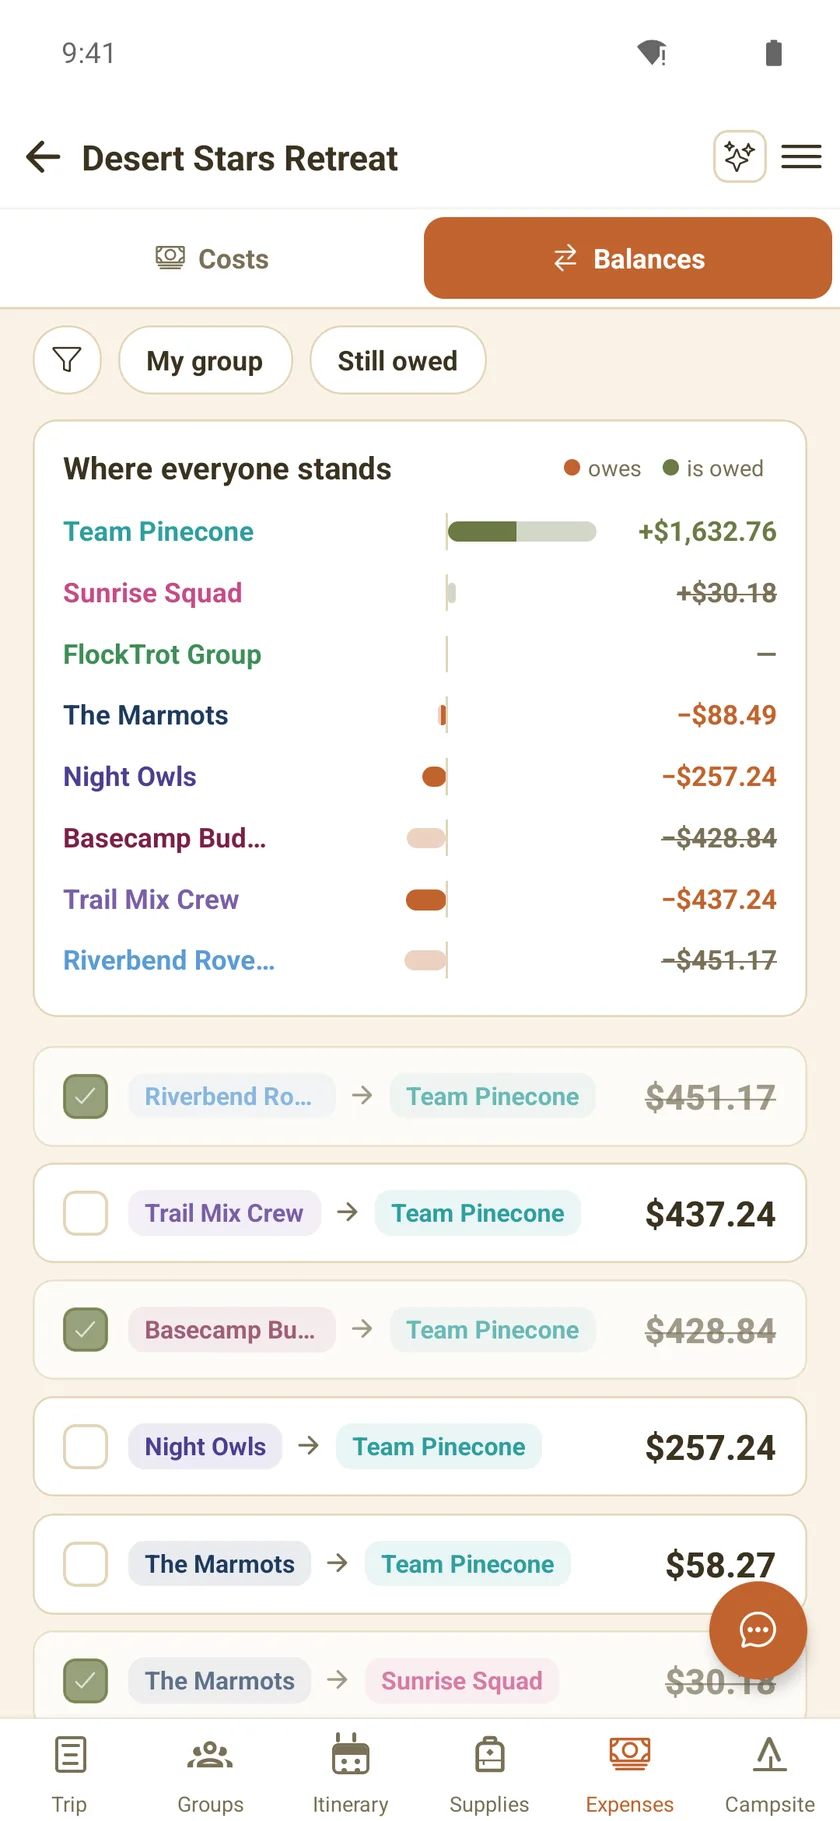
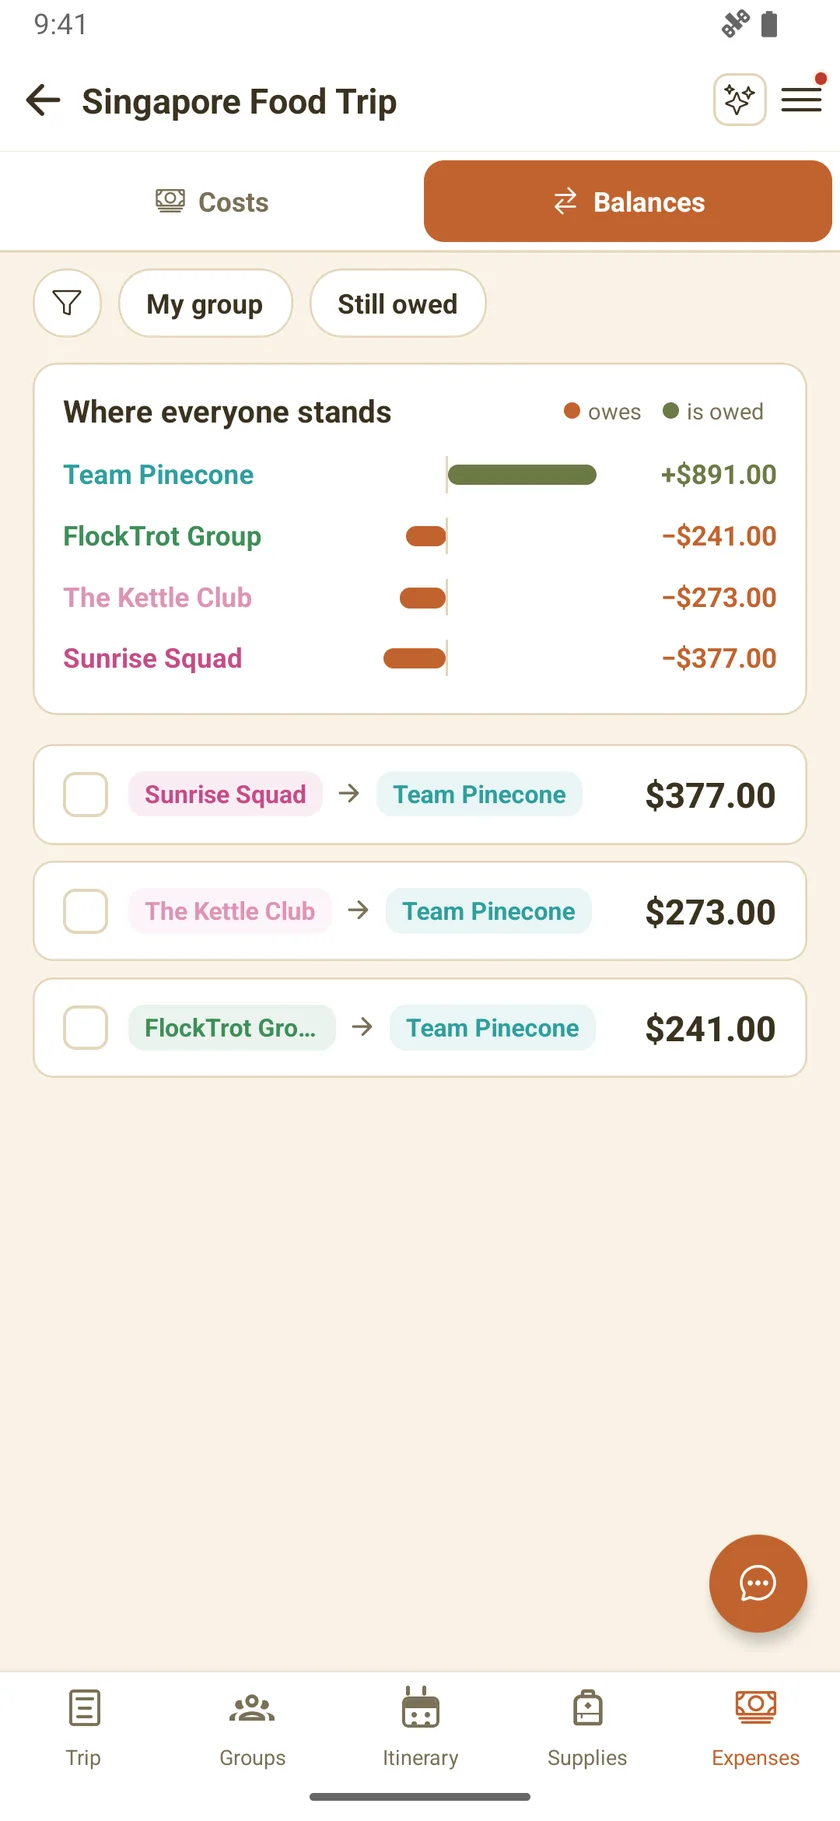
Lead with any group trip, not just camping
Hero, metadata, JSON-LD and FAQ now say group trip; the who-it's-for section
moves up under the features as 'Built for camping. Ready for any trip.' with a
cabin/road-trip/city card first. Trip list, calendar and balances images are
re-shot from the Singapore and Tahoe demo trips.

diff --git a/index.html b/index.html
@@ -4,8 +4,8 @@
 <meta charset="UTF-8">
 <meta name="viewport" content="width=device-width, initial-scale=1">
 
-<title>FlockTrot — Group Camping Trip Planner App for Friends &amp; Family</title>
-<meta name="description" content="Free group camping trip planner for iPhone and Android. Build a shared itinerary, split costs and track who's bringing which supplies — all in one app.">
+<title>FlockTrot — Group Trip Planner for Camping, Cabins &amp; Road Trips</title>
+<meta name="description" content="Free group trip planner for iPhone and Android. Camping, a cabin weekend or a city getaway: build a shared itinerary, split costs and see who's bringing what, all in one app.">
 <link rel="canonical" href="https://www.flocktrot.com/">
 <meta name="robots" content="index, follow, max-image-preview:large, max-snippet:-1">
 <meta name="theme-color" content="#FAF3E7" media="(prefers-color-scheme: light)">
@@ -17,16 +17,16 @@
 <meta property="og:type" content="website">
 <meta property="og:site_name" content="FlockTrot">
 <meta property="og:url" content="https://www.flocktrot.com/">
-<meta property="og:title" content="FlockTrot — Group Camping Trip Planner for Friends &amp; Family">
-<meta property="og:description" content="Build a shared itinerary, split costs, and track who's bringing what — instead of juggling group texts and spreadsheets. Free on iPhone and Android.">
+<meta property="og:title" content="FlockTrot — The Group Trip Planner for Friends &amp; Family">
+<meta property="og:description" content="Camping, cabins, road trips or a city getaway: build a shared itinerary, split costs and track who's bringing what, instead of juggling group texts. Free on iPhone and Android.">
 <meta property="og:image" content="https://www.flocktrot.com/img/og-image.png">
 <meta property="og:image:width" content="1200">
 <meta property="og:image:height" content="630">
-<meta property="og:image:alt" content="FlockTrot — plan group camping trips together. Two phones showing a trip list and a shared supplies list.">
+<meta property="og:image:alt" content="FlockTrot — plan group trips together. Two phones showing a trip list and a shared supplies list.">
 <meta property="og:locale" content="en_US">
 <meta name="twitter:card" content="summary_large_image">
-<meta name="twitter:title" content="FlockTrot — Group Camping Trip Planner for Friends &amp; Family">
-<meta name="twitter:description" content="Build a shared itinerary, split costs, and track who's bringing what — instead of juggling group texts and spreadsheets. Free on iPhone and Android.">
+<meta name="twitter:title" content="FlockTrot — The Group Trip Planner for Friends &amp; Family">
+<meta name="twitter:description" content="Camping, cabins, road trips or a city getaway: build a shared itinerary, split costs and track who's bringing what, instead of juggling group texts. Free on iPhone and Android.">
 <meta name="twitter:image" content="https://www.flocktrot.com/img/og-image.png">
 
 <!-- Native app banners / deep-link association -->
@@ -66,7 +66,7 @@
       "@id": "https://www.flocktrot.com/#website",
       "url": "https://www.flocktrot.com/",
       "name": "FlockTrot",
-      "description": "Group camping trip planner app for friends and family.",
+      "description": "Group trip planner app for friends and family: camping, cabins, road trips and more.",
       "publisher": { "@id": "https://www.flocktrot.com/#org" },
       "inLanguage": "en-US"
     },
@@ -74,7 +74,7 @@
       "@type": "MobileApplication",
       "@id": "https://www.flocktrot.com/#app",
       "name": "FlockTrot",
-      "alternateName": "FlockTrot: Group Camping Trip Planner",
+      "alternateName": "FlockTrot: Group Trip Planner",
       "applicationCategory": "TravelApplication",
       "applicationSubCategory": "Trip Planner",
       "operatingSystem": "iOS 15.1 or later, Android 8.0 or later",
@@ -90,7 +90,7 @@
         "https://www.flocktrot.com/img/supplies@2x.webp",
         "https://www.flocktrot.com/img/calendar-view@2x.webp"
       ],
-      "description": "FlockTrot brings everything a group needs for a camping trip into one shared place: a day-by-day itinerary in list, calendar or map view, a shared supplies and meals list, expense splitting, group chat, campsite details, a reusable personal gear list, and offline access at the campground.",
+      "description": "FlockTrot brings everything a group needs for a trip, from a campground to a cabin or a city break, into one shared place: a day-by-day itinerary in list, calendar or map view, a shared supplies and meals list, expense splitting, group chat, campsite details, a reusable personal gear list, and offline access at the campground.",
       "featureList": [
         "Shared day-by-day itinerary with list, calendar and map views",
         "AI trip builder that drafts a plan from a plain-language description",
@@ -121,7 +121,7 @@
         },
         {
           "@type": "Question",
-          "name": "How do I join a camping trip someone invited me to?",
+          "name": "How do I join a trip someone invited me to?",
           "acceptedAnswer": { "@type": "Answer", "text": "Open the invite link the trip organiser sends you. If you already have FlockTrot installed, the link opens the invite directly. If you don't, the page walks you through installing the app first, and you're added to the trip automatically once you open FlockTrot and sign in." }
         },
         {
@@ -195,11 +195,12 @@
     <div class="wrap hero__grid">
       <div>
         <span class="eyebrow">Free on iPhone &amp; Android</span>
-        <h1>Plan group camping trips together</h1>
+        <h1>Plan group trips together</h1>
         <p class="hero__lede">
-          FlockTrot gives your whole crew one shared place for the itinerary, the
-          supplies, the campsite and the costs — so nobody's scrolling back through
-          group texts to find out who's bringing the tent.
+          Camping, a cabin weekend or a trip abroad: FlockTrot gives your whole crew
+          one shared place for the itinerary, the supplies, where you're staying and
+          the costs, so nobody's scrolling back through group texts to find out
+          who's bringing what.
         </p>
 
         <div class="stores">
@@ -221,7 +222,7 @@
 
         <p class="hero__note">
           <svg width="17" height="17" viewBox="0 0 24 24" fill="none" stroke="currentColor" stroke-width="2.2" stroke-linecap="round" stroke-linejoin="round" aria-hidden="true" focusable="false"><path d="M20 6L9 17l-5-5"/></svg>
-          Free, no subscription, no ads — and your trips work offline at the campground.
+          Free, no subscription, no ads — and your trips work offline, even with no signal.
         </p>
       </div>
 
@@ -229,7 +230,7 @@
         <div class="phone phone--lead">
           <img src="img/trip-list.webp" srcset="img/trip-list.webp 1x, img/trip-list@2x.webp 2x"
                width="420" height="910" fetchpriority="high" decoding="async"
-               alt="The FlockTrot trip list showing three upcoming trips, each with its campground, dates and how many groups and members are going.">
+               alt="The FlockTrot trip list showing a Singapore food trip with its hotel and a Tahoe cabin weekend, each with dates, a countdown and how many groups and members are going.">
         </div>
         <div class="phone phone--back" aria-hidden="true">
           <img src="img/supplies.webp" srcset="img/supplies.webp 1x, img/supplies@2x.webp 2x"
@@ -251,7 +252,7 @@
     </span>
     <span class="trust__item">
       <svg width="17" height="17" viewBox="0 0 24 24" fill="none" stroke="currentColor" stroke-width="2.2" stroke-linecap="round" stroke-linejoin="round" aria-hidden="true" focusable="false"><path d="M3 3l18 18"/><path d="M5 12.5a10 10 0 0 1 4-2.4M2 8.8a15 15 0 0 1 5-3M10.6 5.1A15 15 0 0 1 22 8.8M18.7 12.4a10 10 0 0 0-2.3-1.5"/><path d="M8.5 16.2a5 5 0 0 1 6-.8"/><path d="M12 20h.01"/></svg>
-      Works offline at camp
+      Works offline
     </span>
     <span class="trust__item">
       <svg width="17" height="17" viewBox="0 0 24 24" fill="none" stroke="currentColor" stroke-width="2.2" stroke-linecap="round" stroke-linejoin="round" aria-hidden="true" focusable="false"><path d="M12 2l8 4v6c0 5-3.4 8.6-8 10-4.6-1.4-8-5-8-10V6l8-4z"/></svg>
@@ -266,7 +267,7 @@
         <span class="eyebrow">Everything in one place</span>
         <h2>Stop planning your trip across five group texts</h2>
         <p>
-          Every part of a group camping trip that normally gets lost in a thread —
+          Every part of a group trip that normally gets lost in a thread —
           the plan, the packing, the money — has a home in FlockTrot.
         </p>
       </div>
@@ -324,6 +325,43 @@
   </section>
 
   <!-- ================= SHOWCASE ================= -->
+  <section class="section section--deep" id="trips">
+    <div class="wrap">
+      <div class="section__head">
+        <span class="eyebrow">Who it's for</span>
+        <h2>Built for camping. Ready for any trip.</h2>
+        <p>FlockTrot started with camping, and the same shared plan works for a cabin weekend, a road trip, a festival or a trip abroad.</p>
+      </div>
+
+      <div class="features">
+        <article class="card">
+          <h3>Cabin weekends, road trips and city getaways</h3>
+          <p>Not camping? Add a hotel, a rental or a cabin as the place you're staying, plus your flights or the drive. The day-by-day plan, the shared costs and the group chat work the same for a Tahoe cabin, a festival or a food trip to Singapore.</p>
+        </article>
+        <article class="card">
+          <h3>The annual family camping trip</h3>
+          <p>Several families, one campground, a tradition that's outgrown a group text. Give each family its own group inside the trip, so the supplies list shows who's bringing what without collapsing into one giant undifferentiated list.</p>
+        </article>
+        <article class="card">
+          <h3>A camping weekend with friends</h3>
+          <p>Nobody wants to be the organiser who chases everyone. A shared itinerary and an open supplies list mean people can claim what they're bringing themselves, instead of waiting to be assigned.</p>
+        </article>
+        <article class="card">
+          <h3>Family reunions and big group getaways</h3>
+          <p>When the group is too large for everyone to track everyone, per-event attendance shows who's actually coming to the Saturday hike, and expense splitting keeps the shared costs straight between households.</p>
+        </article>
+        <article class="card">
+          <h3>Scouts, clubs and recurring group trips</h3>
+          <p>Save your gear list once and pull it into every trip after that. Trips you've already run stay in Past Trips, so next year's plan starts from what actually worked last time.</p>
+        </article>
+        <article class="card">
+          <h3>First-timers planning a camping trip</h3>
+          <p>If you've never organised one, the AI trip builder gives you a realistic starting plan — meals, drive times, what a day at the site actually looks like — rather than a blank itinerary and a vague sense you've forgotten something.</p>
+        </article>
+      </div>
+    </div>
+  </section>
+
   <section class="section section--alt">
     <div class="wrap">
       <div class="section__head">
@@ -377,7 +415,7 @@
             <div class="phone">
               <img src="img/calendar-view.webp" srcset="img/calendar-view.webp 1x, img/calendar-view@2x.webp 2x"
                    width="420" height="910" loading="lazy" decoding="async"
-                   alt="The FlockTrot calendar view of a Yosemite trip, showing meals, a hike and a campsite setup laid out across a timed day grid.">
+                   alt="The FlockTrot calendar day view of a Singapore trip, with a kaya toast breakfast claimed by one group and a Chinatown walk laid out on a timed day grid.">
             </div>
           </div>
         </article>
@@ -425,7 +463,7 @@
             <div class="phone">
               <img src="img/balances.webp" srcset="img/balances.webp 1x, img/balances@2x.webp 2x"
                    width="420" height="910" loading="lazy" decoding="async"
-                   alt="The FlockTrot balances screen listing which family owes which, with the amount owed beside each pair after costs were split.">
+                   alt="The FlockTrot balances screen listing which group owes which, with the amount owed beside each pair after costs were split.">
             </div>
           </div>
         </article>
@@ -462,42 +500,6 @@
   </section>
 
   <!-- ================= USE CASES (SEO content) ================= -->
-  <section class="section section--deep" id="trips">
-    <div class="wrap">
-      <div class="section__head">
-        <span class="eyebrow">Who it's for</span>
-        <h2>Any trip where more than one person has opinions</h2>
-        <p>FlockTrot is built around camping, but the shared plan works for any group trip.</p>
-      </div>
-
-      <div class="features">
-        <article class="card">
-          <h3>The annual family camping trip</h3>
-          <p>Several families, one campground, a tradition that's outgrown a group text. Give each family its own group inside the trip, so the supplies list shows who's bringing what without collapsing into one giant undifferentiated list.</p>
-        </article>
-        <article class="card">
-          <h3>A camping weekend with friends</h3>
-          <p>Nobody wants to be the organiser who chases everyone. A shared itinerary and an open supplies list mean people can claim what they're bringing themselves, instead of waiting to be assigned.</p>
-        </article>
-        <article class="card">
-          <h3>Group road trips and cabin weekends</h3>
-          <p>Not camping? Set a hotel or a rental as the stay instead of a campground. The day-by-day itinerary, the shared costs and the group chat all work the same for a road trip, a festival or a beach house.</p>
-        </article>
-        <article class="card">
-          <h3>Family reunions and big group getaways</h3>
-          <p>When the group is too large for everyone to track everyone, per-event attendance shows who's actually coming to the Saturday hike, and expense splitting keeps the shared costs straight between households.</p>
-        </article>
-        <article class="card">
-          <h3>Scouts, clubs and recurring group trips</h3>
-          <p>Save your gear list once and pull it into every trip after that. Trips you've already run stay in Past Trips, so next year's plan starts from what actually worked last time.</p>
-        </article>
-        <article class="card">
-          <h3>First-timers planning a camping trip</h3>
-          <p>If you've never organised one, the AI trip builder gives you a realistic starting plan — meals, drive times, what a day at the site actually looks like — rather than a blank itinerary and a vague sense you've forgotten something.</p>
-        </article>
-      </div>
-    </div>
-  </section>
 
   <!-- ================= FAQ ================= -->
   <section class="section section--alt" id="faq">
@@ -514,7 +516,7 @@
         </details>
 
         <details>
-          <summary>How do I join a camping trip someone invited me to?</summary>
+          <summary>How do I join a trip someone invited me to?</summary>
           <div class="faq__body"><p>Open the invite link the trip organiser sends you. If you already have FlockTrot installed, the link opens the invite directly. If you don't, the page walks you through installing the app first — then you're added to the trip automatically once you open FlockTrot and sign in.</p></div>
         </details>
 
@@ -607,7 +609,7 @@
         <a class="brand" href="/">
           <img src="img/logo.webp" srcset="img/logo.webp 1x, img/logo@2x.webp 2x" width="260" height="63" alt="FlockTrot" style="height:30px;width:auto" loading="lazy" decoding="async">
         </a>
-        <p>The group camping trip planner for friends and family. Free on iPhone and Android.</p>
+        <p>The group trip planner for friends and family: camping, cabins, road trips and more. Free on iPhone and Android.</p>
       </div>
 
       <div>
